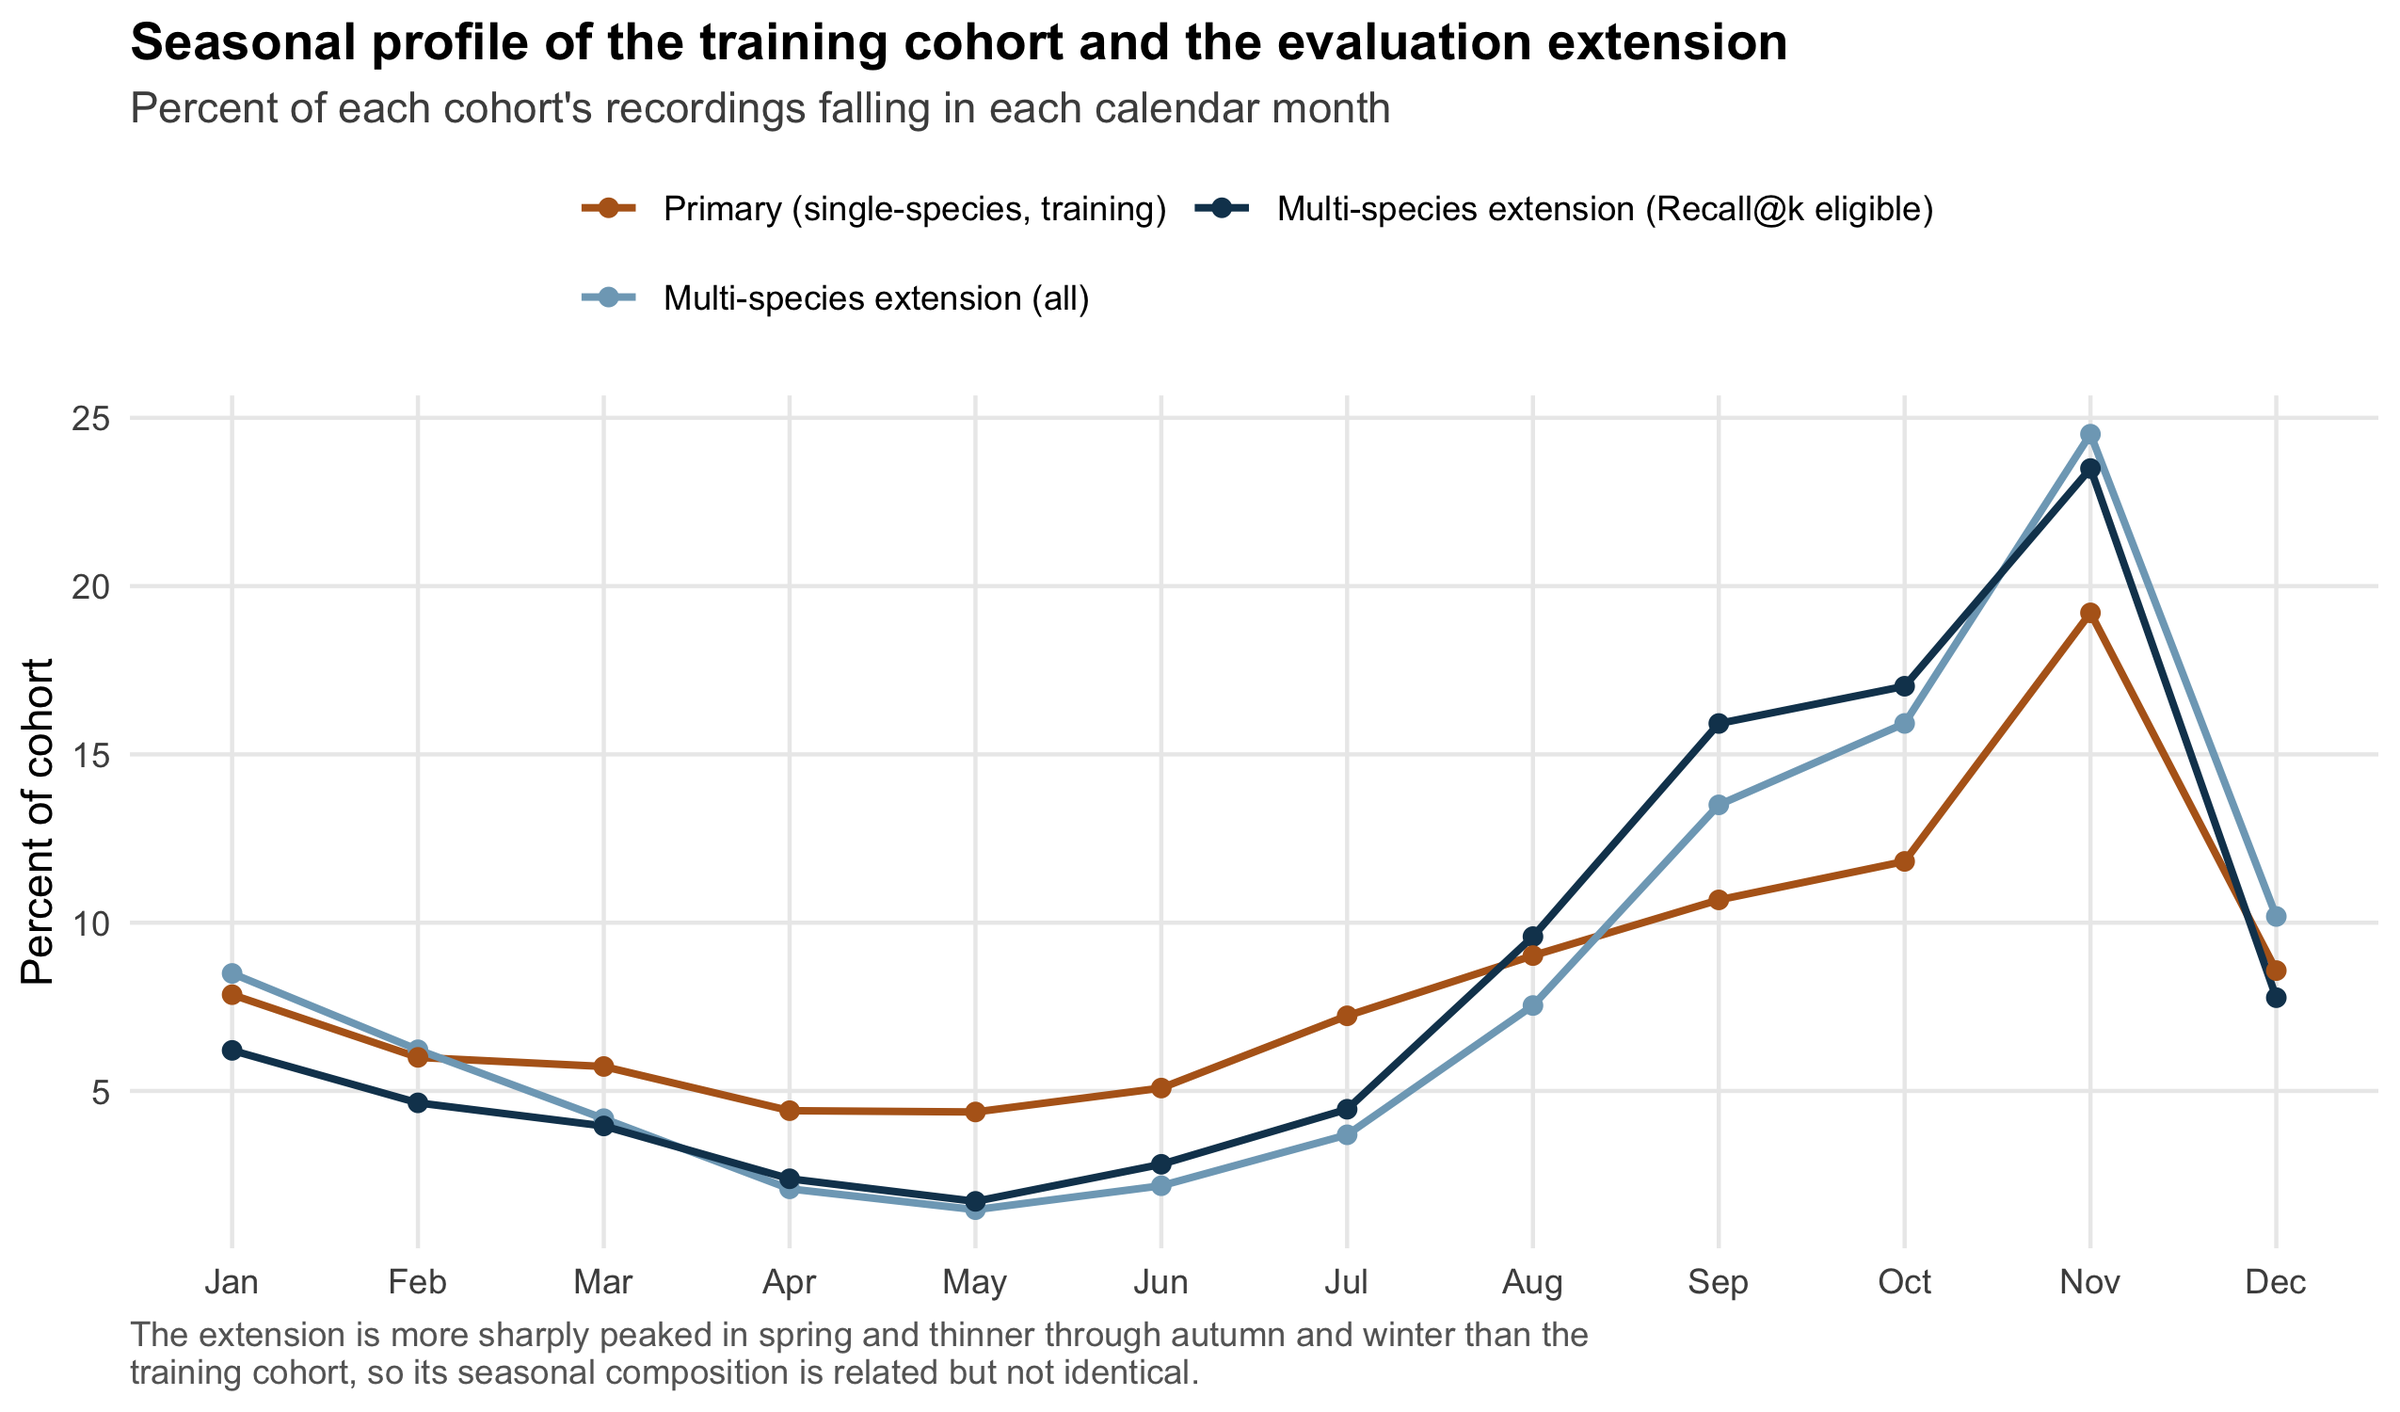
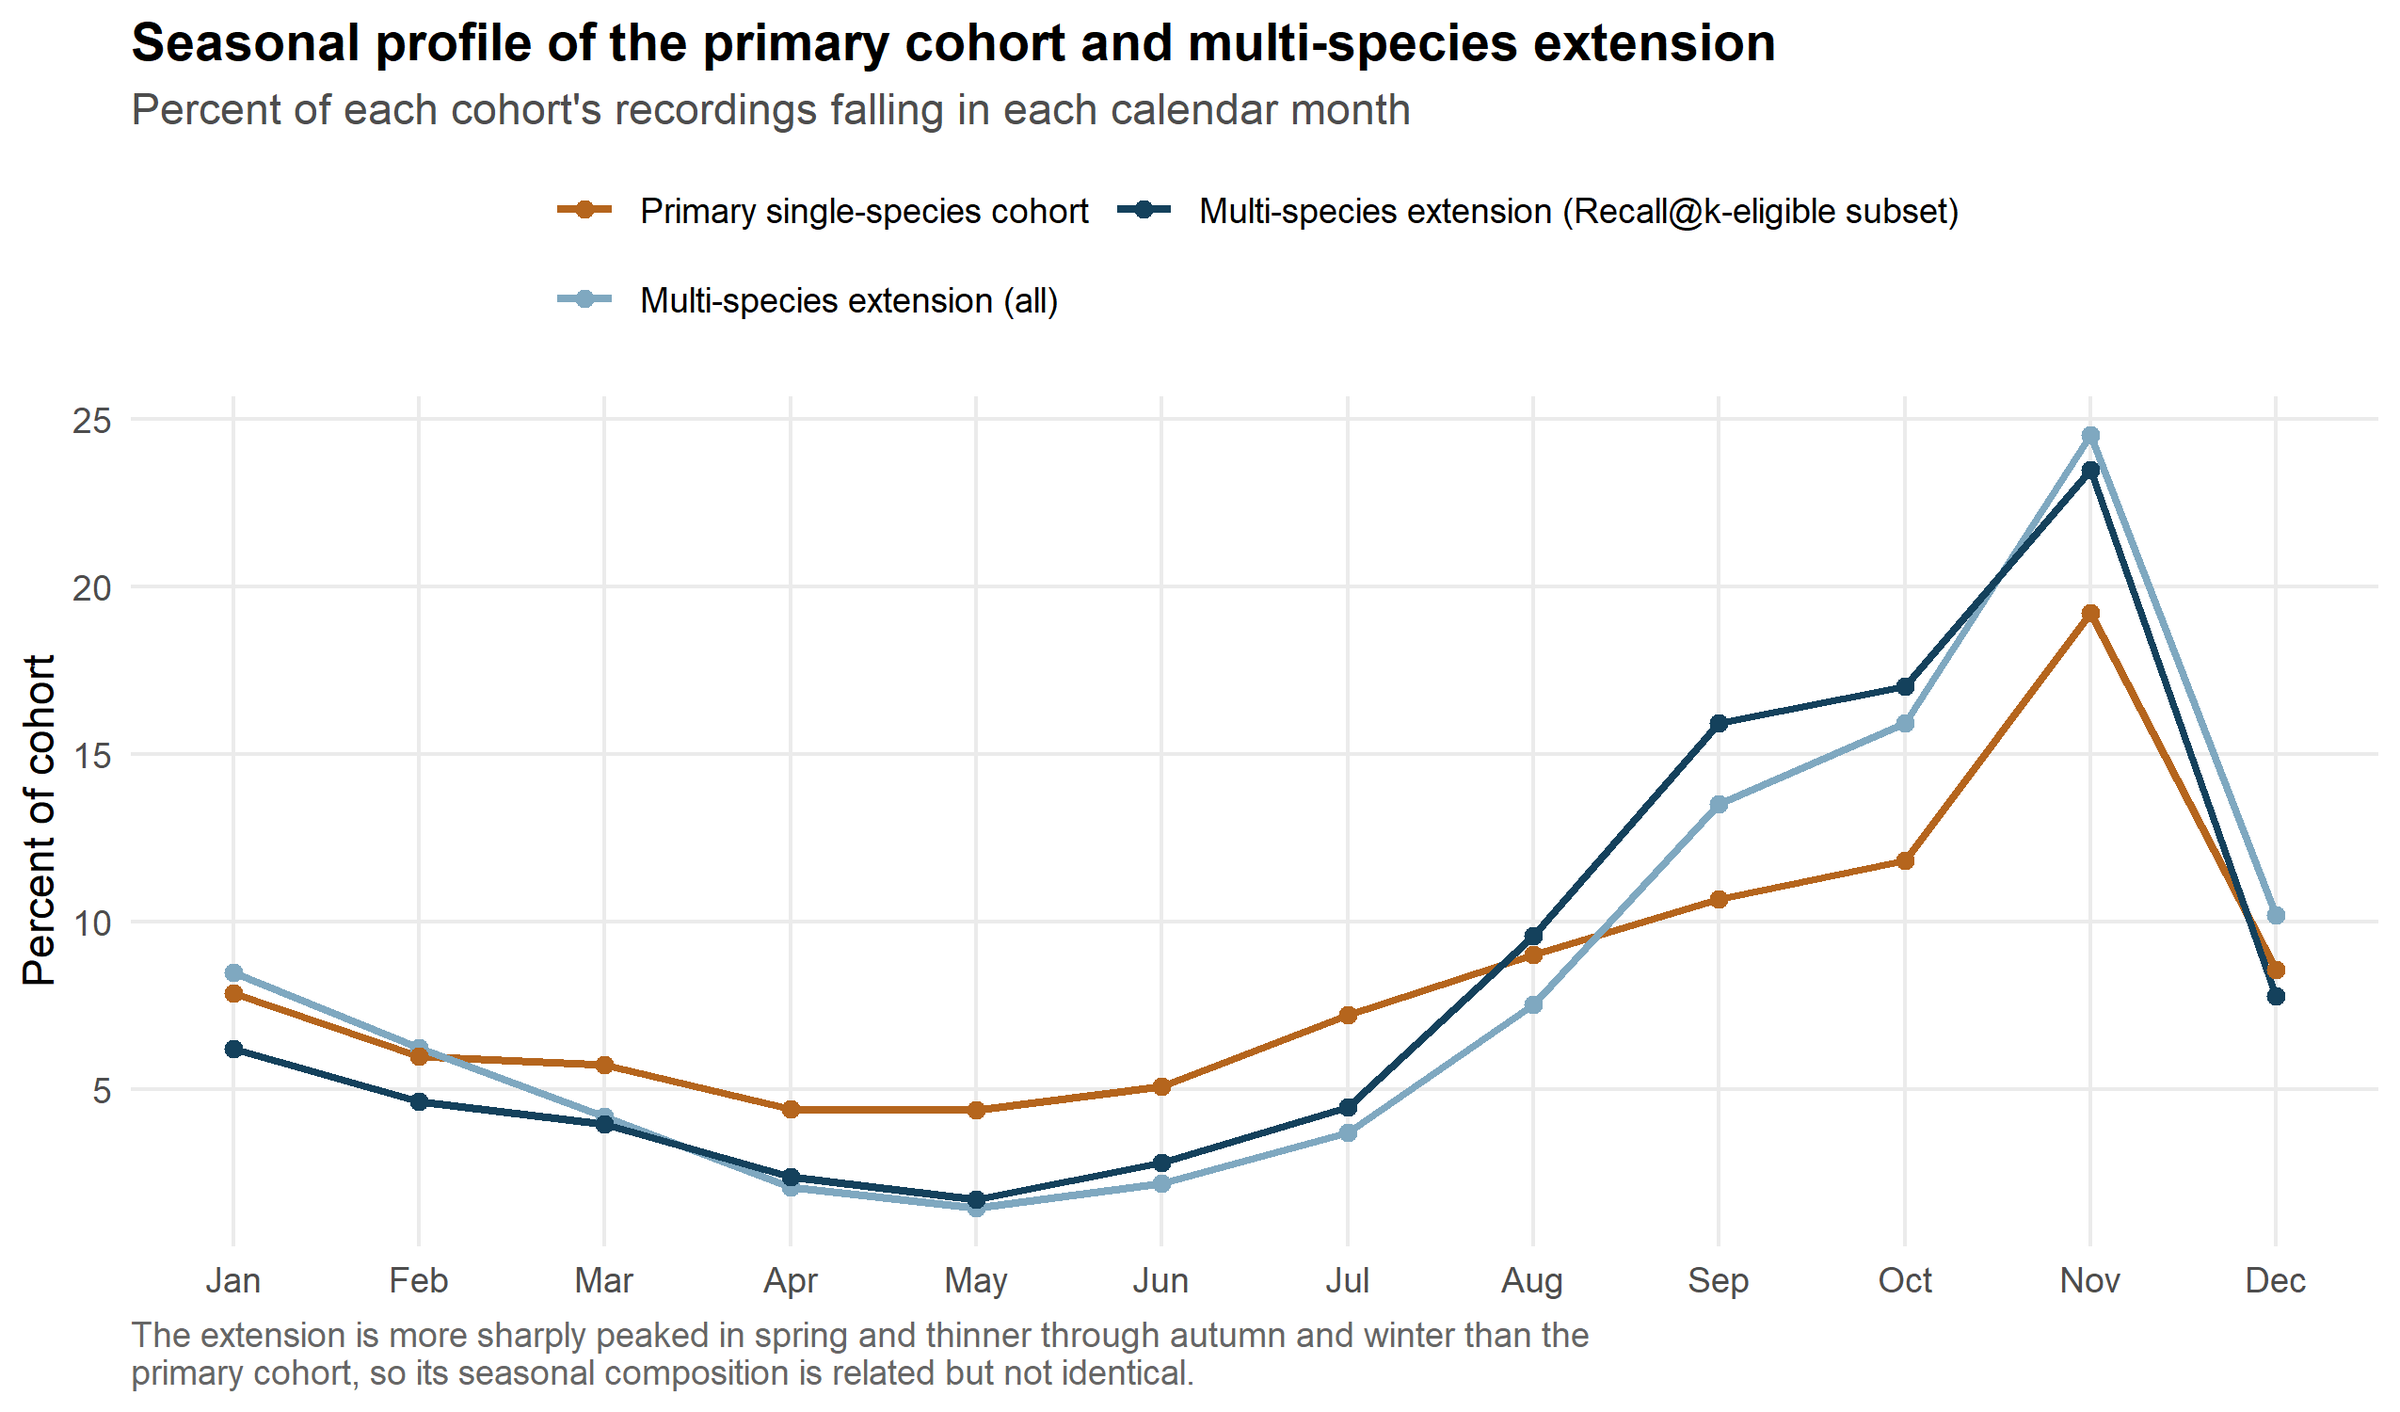
review: validate and refine EDA-07

diff --git a/docs/eda-07-findings.md b/docs/eda-07-findings.md
@@ -17,18 +17,19 @@ measure.
 
 ## Headline findings
 
-1. **The extension is a clean external evaluation set.** Its 213,675 events
-   share no `eventID` with the primary cohort, so no recording is both trained
-   on and evaluated against.
+1. **The multi-species extension is disjoint from the primary cohort.** Its 213,675 events
+   share no eventID with the 247,406 primary single-species events.
+   This makes it suitable for a future out-of-cohort ranking evaluation,
+   provided its different composition is acknowledged.
 2. **Only 59.6% of it is strictly evaluable.** 127,322 events have every
    detected species inside the 18-class vocabulary; the other 86,353 contain at
    least one species the model can never predict.
-3. **Recall@k has a hard ceiling below 1.** Every eligible event holds at
+3. **Recall@k has a k-dependent structural ceiling.** Every eligible event holds at
    least two species, so mean Recall@1 cannot exceed **0.438** and Recall@3
    cannot exceed **0.973**, however good the model is.
-4. **The strictly evaluable subset is not a representative subsample.** It is
-   systematically cooler, drier and further south than the events it excludes.
-   This interacts directly with the project's central geography question.
+4. **The strictly evaluable subset differs materially from the excluded partial-overlap events.**
+   Its observed locations and environmental summaries are further south, cooler and drier,
+   so evaluation on this subset would not have the same covariate distribution as the full multi-species extension.
 5. **Eligibility varies enormously by species** — from 95.8% of *Litoria
    ewingii* appearances down to 16.1% for *Litoria moorei*. Per-species Recall@k
    is therefore measured on very unequal samples.
@@ -85,9 +86,9 @@ the 18-class vocabulary. Eligibility collapses as recordings get richer:
 | 8 | 0.7 |
 | 9+ | 0.0 |
 
-This is a mechanical consequence of the 2,000-event selection threshold, not a
-data problem: the more species a recording holds, the more chances it has to
-include one of the 124 non-vocabulary species.
+This is an expected consequence of evaluating against a vocabulary restricted
+to the 18 selected classes: as the number of detected species in an event increases,
+there are more opportunities for at least one detection to fall outside that vocabulary.
 
 **The species responsible.** 142 distinct species appear in the extension, 124
 of them outside the vocabulary. A small number drive most exclusions:
@@ -122,11 +123,10 @@ Recall@k that belongs to the data, not to any model:
 | 4 | 97.8% | 0.995 |
 | 5 | 99.6% | 0.999 |
 
-**This must be reported alongside any Recall@k result.** A model scoring
-Recall@1 = 0.40 on this extension is at 91% of the achievable maximum, not
-failing. Recall@3 and Recall@5 are the informative operating points; Recall@1
-is close to meaningless here and should be reported as Top-1 accuracy against
-the primary cohort instead.
+Future Recall@k results should be interpreted alongside these structural ceilings.
+Recall@1 has a maximum attainable mean recall of only 0.438, while the ceilings
+for Recall@3 and Recall@5 are 0.973 and 0.999 respectively. This provides a
+data-driven reason to prioritise k = 3 and 5 in the later evaluation plan.
 
 ---
 
@@ -144,25 +144,16 @@ Strongest associations by Jaccard:
 | *Crinia signifera* + *Limnodynastes tasmaniensis* | 26,544 | 0.243 |
 | *Litoria caerulea* + *Litoria gracilenta* | 4,674 | 0.206 |
 
-Hierarchical clustering on the co-occurrence matrix separates four groups that
-map cleanly onto Australian regions:
+Hierarchical clustering of the Jaccard co-occurrence matrix shows several clear groups of
+species that are frequently detected together. Because this analysis clusters species using
+co-occurrence only, it does not by itself establish that the groups are geographic. The pattern
+is consistent with spatial structuring, which should be checked directly in EDA-04 using the
+geographic data.
 
-- **South-west**: *Crinia glauerti*, *Crinia georgiana*, *Litoria moorei*.
-  Near-total isolation from the other 15 species.
-- **Northern/tropical**: *Litoria caerulea*, *Litoria gracilenta*,
-  *Litoria pyrina*, *Litoria infrafrenata*.
-- **Eastern coastal**: *Litoria fallax*, *Litoria peronii*,
-  *Limnodynastes peronii*, *Adelotus brevis*.
-- **South-eastern temperate**: *Crinia signifera*,
-  *Limnodynastes tasmaniensis*, *Crinia parinsignifera*,
-  *Limnodynastes dumerilii*, *Litoria ewingii*, *Litoria verreauxii*.
-
-**Relevance to EDA-04/09.** Co-occurrence structure here is essentially
-geographic structure. The block-diagonal pattern is independent corroboration
-that the 18 classes are strongly spatially separated, which is exactly the
-condition under which random validation flatters a model with latitude and
-longitude in it. This supports treating the M3 vs M4 comparison under spatial
-blocking as the decisive test.
+**Relevance to EDA-04/09.** The strong block structure provides a data-driven reason to test
+whether these co-occurrence groups also have distinct spatial distributions. If EDA-04 confirms
+strong geographic separation, that evidence can then be used to justify spatially aware
+validation in the later project plan.
 
 ---
 
@@ -183,7 +174,7 @@ The most common exact combinations across all detected species are:
 
 All of the top ten are pairs, and *Crinia signifera*, the most common single
 species, is in six of them. Combinations are dominated by two-species
-pairings within one regional cluster (section 4). *Litoria fallax* + *Litoria
+pairings within the same co-occurrence groups (section 4). *Litoria fallax* + *Litoria
 peronii* is 9,299 events among target species only but just 4,088 when all
 detected species must match, because they are often joined by a non-vocabulary
 species.
@@ -194,7 +185,8 @@ species.
 
 Table: `eda07_species_participation.csv`. Figure: `eda07_species_participation.png`.
 
-Most target species appear in multi-species recordings more often than alone.
+Within the retained clean primary and multi-species cohorts, most target species
+appear in multi-species recordings more often than alone.
 *Litoria verreauxii* (90.2%) and *Crinia parinsignifera* (87.9%) are recorded
 in company nine times out of ten; only *Litoria infrafrenata* (40.2%) and
 *Litoria quiritatus* (47.6%) are predominantly solitary.
@@ -208,10 +200,11 @@ Eligibility rates differ far more than participation rates:
 | *Crinia signifera* | 81.0 | *Litoria caerulea* | 34.0 |
 | *Litoria verreauxii* | 80.1 | *Litoria infrafrenata* | 38.7 |
 
-A species living alongside many unselected species is under-represented in the
-strict evaluation even when it is common. *Litoria moorei* contributes 4,090
+Species that frequently co-occur with species outside the 18-class vocabulary are
+under-represented in the strict evaluation subset. *Litoria moorei* contributes 4,090
 multi-species appearances but only 659 evaluable ones. Per-species Recall@k for
-the bottom group will be noisy and is not comparable with the top group.
+low-eligibility species will be estimated from much smaller samples, so it should
+be reported with the corresponding eligible sample size and interpreted with greater uncertainty.
 
 ---
 
@@ -220,7 +213,8 @@ the bottom group will be noisy and is not comparable with the top group.
 Tables: `eda07_eligible_vs_partial.csv`, `eda07_cohort_comparison.csv`.
 Figure: `eda07_eligible_vs_partial.png`.
 
-No. Medians, eligible vs partial-overlap:
+The two subsets differ materially on several observed covariates.
+Medians, eligible vs partial-overlap:
 
 | Variable | Eligible | Partial overlap |
 | --- | ---: | ---: |
@@ -229,20 +223,18 @@ No. Medians, eligible vs partial-overlap:
 | BIO12 annual precipitation (mm) | 890 | 1,127 |
 | Elevation (m) | 107 | 97 |
 
-The eligible subset sits roughly four degrees further south, three degrees
-cooler and 240 mm drier. This follows from the species-selection rule: the
-2,000-event threshold favoured widespread temperate species, so recordings in
-warmer, wetter northern assemblages are much more likely to contain an
-unselected species.
+The eligible subset is roughly four degrees further south in median latitude,
+about three degrees cooler in BIO1 and around 240 mm drier in BIO12. These are
+substantial descriptive shifts. The mechanism should be investigated in EDA-04/05
+rather than assumed from this analysis alone.
 
-**Consequence.** Strict Recall@k measures ranking quality in temperate
-southern Australia, not nationally. Because the project's central question is
-whether models generalise geographically, silently evaluating only on eligible
-events would bias that answer in the direction the project is trying to test.
+**Consequence.** A strict Recall@k evaluation would place substantially more weight on
+cooler and more southerly recording contexts than the full multi-species extension.
+That scope difference should therefore be reported alongside future Recall@k results.
 
 ---
 
-## 8. Training cohort vs extension
+## 8. Primary cohort vs multi-species extension
 
 Tables: `eda07_cohort_monthly_share.csv`, `eda07_cohort_comparison.csv`,
 `eda07_cohort_overview.csv`. Figures: `eda07_cohort_monthly_share.png`,
@@ -258,29 +250,32 @@ vs eligible extension events:
 | BIO12 annual precipitation (mm) | 1,002 | 987 | 890 |
 | Elevation (m) | 76 | 98 | 107 |
 
-The full extension resembles the training cohort closely on climate and
-latitude. The shift only appears in the eligible subset (section 7), so a
-model trained on the primary cohort is not being tested on a different climate
-overall, but strict evaluation would be. Elevation is somewhat higher in the
-extension.
+On these selected median summaries, the full extension is relatively similar
+to the primary cohort, whereas the eligible subset shows a clearer shift.
+These summaries do not establish that the full distributions are identical,
+but they show that restricting to Recall@k-eligible events changes the observed
+environmental composition more noticeably. Median elevation is also somewhat
+higher in the extension.
 
 **Season.** Both cohorts span the same window (2017-11-10 to 2023-11-09) and
 are seasonal in the same direction, but the extension is more sharply peaked:
 November holds 23.5% of eligible events against 19.2% of primary events, and
-the autumn–winter trough is deeper. Multi-species recordings concentrate in peak spring chorus
-conditions, when more species are calling at once.
+the autumn–winter trough is deeper. Multi-species recordings are more concentrated
+in spring. This may reflect a combination of frog calling activity and FrogID
+recording effort, so these counts should not be interpreted as pure phenology.
 
-Environmental missingness is *lower* in the extension (0.98% of eligible events)
-than in the primary cohort (1.94%), consistent with EDA-06's expectation that
-missingness sits at raster edges and coastal cells.
+Environmental missingness is lower in the eligible extension (0.98%) than in
+the primary cohort (1.94%). EDA-06 should determine whether this difference is
+explained by geography, raster coverage or species composition rather than
+assuming the mechanism here.
 
 ---
 
 ## Recommendations for the modelling stage
 
-1. **Report the ceiling with every Recall@k number.** Either report raw
-   Recall@k beside the attainable maximum, or report the normalised ratio
-   (achieved ÷ ceiling). Do not present Recall@1 on this extension as a headline.
+1. **Report the theoretical ceiling alongside future Recall@k results.**
+   This is especially important for small k, where the number of species
+   detected in each recording constrains the maximum attainable recall.
 2. **Use k ∈ {3, 5}** as the primary operating points.
 3. **Run both a strict and a restricted evaluation.**
    - *Strict*: the 127,322 eligible events, scoring recall over all detected species.
@@ -288,12 +283,13 @@ missingness sits at raster edges and coastal cells.
      species present and ignoring non-vocabulary detections.
 
    The restricted variant covers the warmer northern events the strict subset
-   drops. Agreement between the two supports a national claim; divergence is
-   itself a reportable finding about where the vocabulary is thin.
+   drops. Comparing the two would show how sensitive future evaluation is
+   to the 18-class vocabulary restriction. Neither result alone should be
+   interpreted as evidence of national ecological coverage.
 4. **Report per-species Recall@k with its eligible sample size** so the
    low-eligibility species are not read as poor model performance.
-5. **Keep the extension out of training entirely**, including any
-   hyperparameter tuning, so it stays a genuine external evaluation.
+5. **Keep the multi-species extension out of future model fitting and hyperparameter tuning**
+   so it remains a genuinely disjoint evaluation extension.
 6. **Do not treat a non-vocabulary detection as a false positive.** The model
    has no vocabulary entry for *Litoria tyleri*; failing to rank it is a
    scope limitation, not an error.
@@ -302,8 +298,9 @@ missingness sits at raster edges and coastal cells.
 
 - Should the restricted evaluation weight events by `n_selected_species`, or
   weight every event equally? Equal weighting lets two-species events dominate.
-- Is a spatially blocked Recall@k worth running, given that co-occurrence
-  structure is largely geographic? This depends on EDA-09's block design.
+- Is a spatially blocked Recall@k worth running, if EDA-04 confirms that the
+  observed co-occurrence structure is strongly geographic? This depends on EDA-09's
+  block design.
 - Would reporting Recall@k separately per co-occurrence cluster (section 4) be
   more informative than a single national number?
 
@@ -314,3 +311,5 @@ missingness sits at raster edges and coastal cells.
 - No exact recording coordinates are published; all spatial content is
   aggregate summary statistics.
 - Multi-species events were not expanded into contradictory training labels.
+- No classification model was fitted in EDA-07; all Recall@k quantities reported
+  here are structural properties or theoretical ceilings derived from the data.
